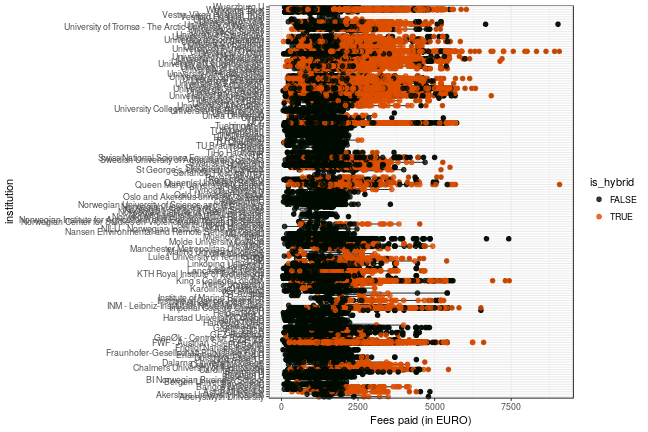
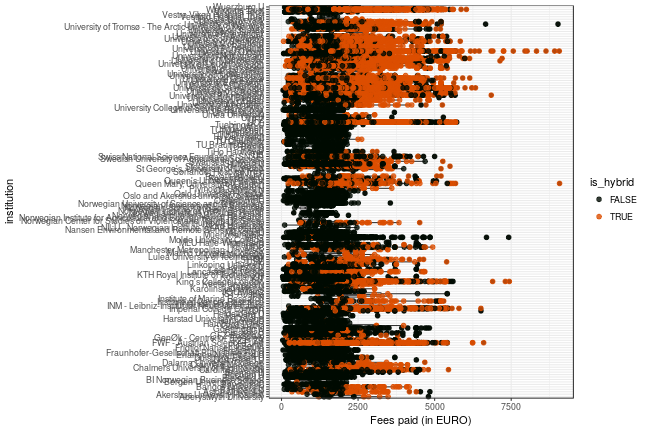
post: mlu joins openapc

diff --git a/about.md b/about.md
@@ -25,6 +25,7 @@ So far, the following German universities have agreed to share information on pa
 - [Leibniz Universität Hannover](https://tib.eu/oafonds)
 - [Leipzig University](https://www.ub.uni-leipzig.de/forschungsbibliothek/projekte/projekte-chronologisch/open-access-publikationsfonds/)
 - [Ludwig-Maximilians-Universität München](http://www.en.ub.uni-muenchen.de/writing/open-access-publishing/funding/index.html)
+- [Martin-Luther-Universität Halle-Wittenberg](http://bibliothek.uni-halle.de/dbib/openaccess/publikationsfonds/)
 - [Münster University](https://www.uni-muenster.de/Publizieren/service/publikationsfonds/)
 - [JGU Mainz](https://www.openaccess.uni-mainz.de/publikationsfonds-der-jgu/)
 - [JLU Giessen](https://www.uni-giessen.de/ub/en/digitales-publizieren-en/openaccess-en/oajlu-en?set_language=en)
@@ -224,13 +225,13 @@ Jisc Collections released data on APC payments made by UK higher education insti
 
 Information on both open access journal articles and open access publication of articles in toll-access journals ("hybrid") are provided.
 
-In total,  99 350 102 € for  52 179 articles were paid by the participating unviversities. Average  fee is 1 904 € and the median 1 707 €.
+In total,  99 386 976 € for  52 196 articles were paid by the participating unviversities. Average  fee is 1 904.1 € and the median 1 707 €.
 
 ### Open Access Journals
 
 
 
-At the moment, the dataset releases information on 30 446 articles in open access journals which charge publication fees. Total expenditure amounts to  45 253 916 €. Average  fee is 1 486.4 € and the median 1 415 €.
+At the moment, the dataset releases information on 30 463 articles in open access journals which charge publication fees. Total expenditure amounts to  45 290 790 €. Average  fee is 1 486.7 € and the median 1 415 €.
 
 View dataset on [GitHub](https://github.com/OpenAPC/openapc-de/blob/master/data/apc_de.csv).
 
@@ -300,6 +301,7 @@ View dataset on [GitHub](https://github.com/OpenAPC/openapc-de/blob/master/data/
 |Manchester Metropolitan University                              |       10|            14,997|         1,500|  1,421|
 |MDC                                                             |       93|           188,106|         2,023|  1,800|
 |Milano U                                                        |      121|           185,356|         1,532|  1,495|
+|MLU Halle-Wittenberg                                            |       17|            36,874|         2,169|  2,142|
 |Molde University College                                        |        3|             1,876|           625|    584|
 |MPG                                                             |    3,675|         4,987,866|         1,357|  1,207|
 |Muenchen LMU                                                    |      407|           533,749|         1,311|  1,342|
@@ -576,7 +578,7 @@ For data enrichment, sample visualisations and explorations we build on the work
 
 ## Contributors
 
-Jens Harald Aasheim, Benjamin Ahlborn, Chelsea Ambler, Magdalena Andrae, Jochen Apel, Hans-Georg Becker, Roland Bertelmann, Daniel Beucke, Peter Blume, Ute Blumtritt, Sabine Boccalini, Kim Braun, Christoph Broschinski, Dorothea Busjahn, Pablo de Castro, Amanda Cullin, Patrick Danowski, Gernot Deinzer, Julia Dickel, Andrea Dorner, Stefan Drößler, Karin Eckert, Carsten Elsner, Clemens Engelhardt, Inken Feldsien-Sudhaus, Fabian Franke, Claudia Frick, Paola Galimberti, Agnes Geißelmann, Kai Karin Geschuhn, Steffi Grimm, Christian Gutknecht, Uli Hahn, Kristina Hanig, Dominik Hell, Ulrich Herb, Stephanie Herzog, Ute Holzwarth, Christie Hurrell, Doris Jaeger, Najko Jahn, Alexandra Jobmann, Andreas Kennecke, Robert Kiley, Gerrit Kuehle, Ignasi Labastida i Juan, Gerald Langhanke, Stuart Lawson, Kathrin Lucht-Roussel, Jan Lüth, Frank Lützenkirchen, Anna Marini, Anja Oberländer, Vitali Peil, Dirk Pieper, Tobias Pohlmann, Markus Putnings, Annette Scheiner, Michael Schlachter, Birgit Schlegel, Stefanie Seeh, Adriana Sikora, Susanne Stemmler, Matti Stöhr, Edith Reschke, Katharina Rieck, Florian Ruckelshausen, Ilka Rudolf, Marco Tullney, Astrid Vieler, Viola Voß, Marco Winkler, Sabine Witt, Philip Young
+Jens Harald Aasheim, Benjamin Ahlborn, Chelsea Ambler, Magdalena Andrae, Jochen Apel, Hans-Georg Becker, Roland Bertelmann, Daniel Beucke, Peter Blume, Ute Blumtritt, Sabine Boccalini, Kim Braun, Christoph Broschinski, Dorothea Busjahn, Pablo de Castro, Roberto Cozatl, Amanda Cullin, Patrick Danowski, Gernot Deinzer, Julia Dickel, Andrea Dorner, Stefan Drößler, Karin Eckert, Carsten Elsner, Clemens Engelhardt, Inken Feldsien-Sudhaus, Fabian Franke, Claudia Frick, Paola Galimberti, Agnes Geißelmann, Kai Karin Geschuhn, Steffi Grimm, Christian Gutknecht, Uli Hahn, Kristina Hanig, Dominik Hell, Ulrich Herb, Stephanie Herzog, Ute Holzwarth, Christie Hurrell, Doris Jaeger, Najko Jahn, Alexandra Jobmann, Andreas Kennecke, Robert Kiley, Gerrit Kuehle, Ignasi Labastida i Juan, Gerald Langhanke, Stuart Lawson, Kathrin Lucht-Roussel, Jan Lüth, Frank Lützenkirchen, Anna Marini, Anja Oberländer, Vitali Peil, Dirk Pieper, Tobias Pohlmann, Markus Putnings, Annette Scheiner, Michael Schlachter, Birgit Schlegel, Stefanie Seeh, Adriana Sikora, Susanne Stemmler, Matti Stöhr, Edith Reschke, Katharina Rieck, Florian Ruckelshausen, Ilka Rudolf, Marco Tullney, Astrid Vieler, Viola Voß, Marco Winkler, Sabine Witt, Philip Young
 
 ## Contact
 

diff --git a/_posts/2018-06-06-mlu.md b/_posts/2018-06-06-mlu.md
@@ -1,0 +1,48 @@
+---
+layout:     post
+author:     Christoph Broschinski
+author_lnk: https://github.com/cbroschinski
+title:      MLU Halle-Wittenberg joins OpenAPC
+date:       2018-06-06 08:00:00
+summary:    
+categories: [general, openAPC]
+comments: true
+---
+
+
+
+
+We welcome the [Martin-Luther-Universität Halle-Wittenberg (MLU)](http://www.uni-halle.de/) as new contributing institution!
+
+The MLU [University and State Library (ULB)](http://bibliothek.uni-halle.de/info/?lang=en) is in charge of the [University's Open Access Publishing Fund](http://bibliothek.uni-halle.de/dbib/openaccess/publikationsfonds/?lang=en), which is supported under the [DFG's Open Access Publishing Programme](http://www.dfg.de/en/research_funding/programmes/infrastructure/lis/funding_opportunities/open_access/).
+
+Contact Person is [Roberto Cozatl](mailto:roberto.cozatl@bibliothek.uni-halle.de).
+
+## Cost data
+
+
+
+The initial datasets provided by the ULB covers publication fees for 17 articles published in 2017. Total expenditure amounts to 36 874€ and the average fee is 2 169€.
+
+
+|                              | Articles| Fees paid in EURO| Mean Fee paid|
+|:-----------------------------|--------:|-----------------:|-------------:|
+|MDPI AG                       |        6|              9474|          1579|
+|Frontiers Media SA            |        3|              6452|          2151|
+|Springer Nature               |        3|              8687|          2896|
+|Elsevier BV                   |        2|              3001|          1500|
+|Oxford University Press (OUP) |        1|              3427|          3427|
+|S. Karger AG                  |        1|              2332|          2332|
+|SAGE Publications             |        1|              3501|          3501|
+
+## Overview
+
+A detailed analysis of the contributed data provides the following overview:
+
+### Fees paid per publisher (in EURO)
+
+![plot of chunk tree_mlu_2018_06_06_full](/figure/tree_mlu_2018_06_06_full-1.png)
+
+###  Average costs per publisher (in EURO)
+
+![plot of chunk box_mlu_2018_06_06_publisher_full](/figure/box_mlu_2018_06_06_publisher_full-1.png)
